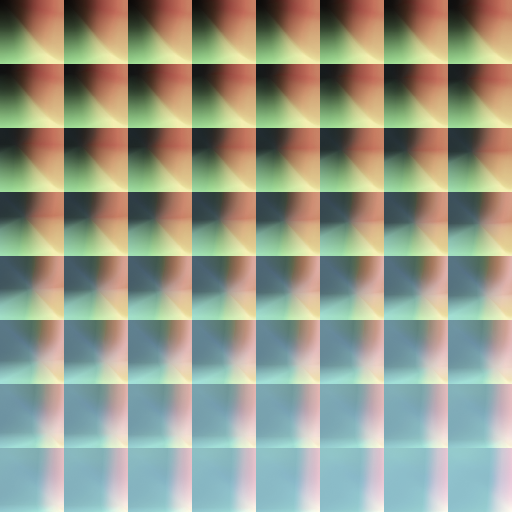
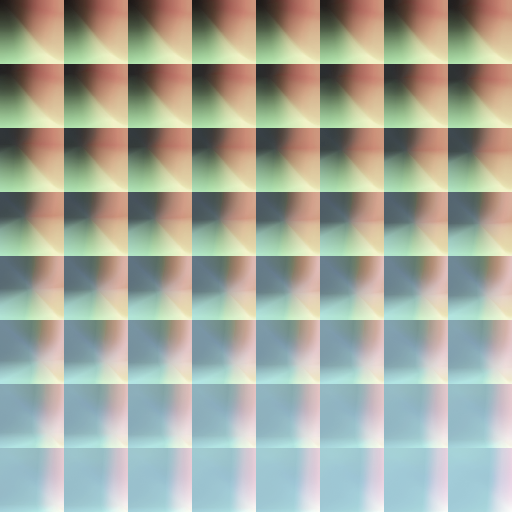
add vx? colors

diff --git a/oldschoolvideo.py b/oldschoolvideo.py
@@ -7,7 +7,7 @@ import time
 import argparse
 from tqdm import tqdm
 
-defaultlutpath = 'lut/lookup_kodak_5218_kodak_2395.png'
+defaultlutpath = 'lut/lookup_vx.png'
 
 class MYLUT: # my lut filter
     '''
@@ -52,13 +52,13 @@ class MYLUT: # my lut filter
 # define some vars
 # arguments
 parser = argparse.ArgumentParser()
-parser.add_argument("-i", "--input", type = str, default = '/Users/zjj/Downloads/C0102.MP4')
+parser.add_argument("-i", "--input", type = str, default = '/Users/zjj/Downloads/2160p.MOV')
 parser.add_argument("-o", "--output", type = str, default = '/Users/zjj/Downloads/test.out2.mov')
 parser.add_argument("-lut", "--lutpath", type = str, default = defaultlutpath)
-parser.add_argument("-height", "--perferheight", type = int, default = 1080)
+parser.add_argument("-height", "--perferheight", type = int, default = 480)
 parser.add_argument("-fps", "--framepersecond", type = int, default = 30)
-parser.add_argument("-x264", "--encode264", type = int, default = 0)
-parser.add_argument("-interlaced", "--interlaced", type = int, default = 1)
+parser.add_argument("-x264", "--encode264", type = int, default = 1)
+parser.add_argument("-interlaced", "--interlaced", type = int, default = 0)
 userArgs = vars(parser.parse_args())
 # lut
 lut = MYLUT(lutpath=userArgs['lutpath'])
@@ -178,6 +178,7 @@ def progressVideo(src, output, encodewith264, framepersecond, interlaced, perfer
 def progressImage(src, output = 'out.jpg'):
     print("Progressing")
     img = cv2.imread(src)
+    img = cv2.resize(img, (600, 400))
     vhs = handleImage(img)
     cv2.imshow('output', vhs)
     cv2.waitKey(0)
@@ -185,8 +186,8 @@ def progressImage(src, output = 'out.jpg'):
     print("Done")
 
 def testLut():
-    testimg = cv2.imread('/Users/zjj/Downloads/照片/ZJJ03460.JPG')
-    testimg = cv2.resize(testimg, (600, 400))
+    testimg = cv2.imread('/Users/zjj/Downloads/照片/IMG_0495.JPG')
+    # testimg = cv2.resize(testimg, (600, 400))
     fileinlutdir = os.listdir('lut')
     fileinlutdir = sorted(fileinlutdir)
     for filename in fileinlutdir:
@@ -194,17 +195,22 @@ def testLut():
             lutpath = 'lut/' + filename
             print('Init', time.time())
             lut = MYLUT(lutpath)
-            print('Start', time.time())
-            img = lut.imageInLut(testimg)
-            print('Finish', time.time())
-            cv2.imshow(filename, img)
-            cv2.waitKey(0)
-            cv2.destroyWindow(filename)
+            img = testimg.copy()
+            for i in range(1):
+                print('Start', time.time())
+                img = lut.imageInLut(img)
+                print('Finish', time.time())
+                windowname = filename + str(i)
+                cv2.namedWindow(windowname, cv2.WINDOW_KEEPRATIO)
+                cv2.resizeWindow(windowname, 1080, 1920)
+                cv2.imshow(windowname, img)
+                cv2.waitKey(0)
+                cv2.destroyWindow(windowname)
     print("Done")
 
 if __name__ == "__main__":
     # testLut()
     # exit()
-    progressImage('test.jpg')
-    exit()
+    # progressImage('test.jpg')
+    # exit()
     progressVideo(userArgs["input"], output = userArgs["output"], encodewith264 = userArgs["encode264"], perferheight = userArgs["perferheight"], framepersecond = userArgs["framepersecond"], interlaced = userArgs["interlaced"])
